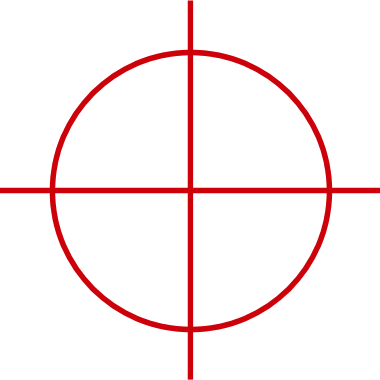
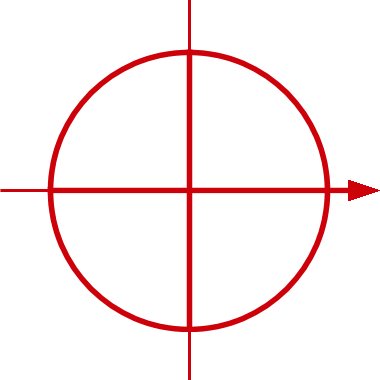
Updated RTZ for final conference - Travemünde to Helsinki Updated navigation cross image to have an arrow and slimmer lines. Changed autozoom on vessel to higher zoom level for easier overview on map. Made navigation cross appear on map even when zoomed out beyond vessel details listing Changed vess

diff --git a/src/main/webapp/vessel/ais-vessel-layer.js b/src/main/webapp/vessel/ais-vessel-layer.js
@@ -196,7 +196,7 @@ angular.module('maritimeweb.vessel')
                         return scale;
                     };
 
-                        /** Mark a vessel feature with a ring. */
+                        /** Mark a vessel feature with a ring or whatever. */
                         scope.markVesselFeature = function (vessel) {
                             var rot = vessel.radian;
                             if(vessel.moored && vessel.radian==3.141592653589793) rot = 0; //means undefined
@@ -325,17 +325,37 @@ angular.module('maritimeweb.vessel')
                                         features.push(vesselFeature);
 
                                         //always display users vessel if one is specified
-                                        if($window.localStorage.getItem('mmsi')!= null && $window.localStorage.getItem('mmsi')==vessel.mmsi){
+                                        if ($window.localStorage.getItem('mmsi') != null && $window.localStorage.getItem('mmsi') == vessel.mmsi) {
                                             features.push(scope.markVesselFeature(vesselData));
                                         }
                                     }
+
 
                                     vesselLayer.getSource().clear();
                                     vesselLayer.getSource().addFeatures(features);
                                     vesselLayer.setZIndex(10);
                                     $rootScope.loadingData = false; // stop spinner
-                                    //growl.success('<b>' + scope.vessels.length + '</b> vessels loaded', {ttl: 3000});
 
+
+                                    if($window.localStorage.getItem('mmsi')!= null && zoomLvl<9){
+                                        var uservessel = {};
+                                        VesselService.detailsMMSI($window.localStorage.getItem('mmsi')).then(function (vesselDetails) {
+                                            uservessel.name = vesselDetails.data.aisVessel.name;
+                                            uservessel.lon = vesselDetails.data.aisVessel.lon;
+                                            uservessel.lat = vesselDetails.data.aisVessel.lat;
+                                            uservessel.cog = vesselDetails.data.aisVessel.cog;
+                                            uservessel.id = vesselDetails.data.aisVessel.name;
+                                            uservessel.callsign = vesselDetails.data.aisVessel.callsign;
+                                            uservessel.mmsi = vesselDetails.data.aisVessel.mmsi;
+                                            uservessel.moored = vesselDetails.data.aisVessel.moored;
+                                            uservessel.angle = vesselDetails.data.aisVessel.rot;
+                                            uservessel.radian = ((vesselDetails.data.overview.angle - 90) * (Math.PI / 180));
+                                            $window.localStorage.setItem('Vessel_AIS_data', JSON.stringify(uservessel));
+                                            var tmpves = {"name":uservessel.name,"type":"0","x":uservessel.lon,"y":uservessel.lat,"angle":uservessel.angle,"radian":uservessel.radian,"mmsi":uservessel.mmsi,"callSign":uservessel.callsign,"moored":uservessel.moored,"inBW":false};
+                                            vesselLayer.getSource().addFeatures([scope.markVesselFeature(tmpves)]);
+                                        });
+                                    }
+                                    //growl.success('<b>' + scope.vessels.length + '</b> vessels loaded', {ttl: 3000});
                                 })
                                 .error(function (reason) {
                                     $rootScope.loadingData = false; // stop spinner
@@ -349,7 +369,7 @@ angular.module('maritimeweb.vessel')
 
                         };
 
-                        /** When the map extent changes, reload the Vessels's using a timer to batch up changes */
+                        /** When the map extent changes, reload the Vessels's using a timer to batch up changes - also display vesselmarker on zoom out */
                         scope.mapChanged = function () {
                             if (MapService.isLayerVisible('vesselVectorLayer', vesselLayers)) {
                                 if (loadTimer) {
@@ -462,12 +482,6 @@ angular.module('maritimeweb.vessel')
                         map.on('singleclick', function (evt) {
                             var zoomLvl = map.getView().getZoom();
                             if (zoomLvl > 8) {
-                         /*       var feature = map.forEachFeatureAtPixel(evt.pixel, function (feature, layer) {
-
-                                    return feature;
-                                }, null, function (layer) {
-                                    return layer === vesselLayer;
-                                });*/
 
                                 var feature = map.forEachFeatureAtPixel(evt.pixel, function (feature) {
                                     if(feature.get('mmsi')){

diff --git a/src/main/webapp/map/map-directives.js b/src/main/webapp/map/map-directives.js
@@ -184,18 +184,17 @@ angular.module('maritimeweb.map')
 
                 scope.$watch(function () { return window.localStorage['vts_zoomto_uservessel']; },function(newVal,oldVal){
                     if(newVal && newVal.toString() != ""){
-                        console.log("Zooming triggered:",newVal)
                         localStorage.setItem('vts_zoomto_uservessel', "");
                         map.getView().animate({
                             center: ol.proj.transform(JSON.parse(newVal), 'EPSG:4326', 'EPSG:3857'),
-                            zoom: 14,
+                            zoom: 10,
                             duration: 2000
                         });
                     }
                 });
 
 
-                    // Check for the map reload flag
+                // Check for the map reload flag
                 if (isDefined(scope.mapState) && isDefined(scope.mapState.reloadMap)) {
                     scope.$watch("mapState.reloadMap", function (reload) {
                         if (reload) {
@@ -638,7 +637,7 @@ angular.module('maritimeweb.map')
                         //Enable code, click around on map, see in console. - note: clicking on anything that is not map, such as existing route, vessel, vts area etc, will mess up your rtz.
                         //You have to copy/paste into an RTZ to make it work.
                         // scope.tmpRtzPointsCount++;
-                        // scope.tmpRtzPoints += '<waypoint id=\"'+scope.tmpRtzPointsCount+'\" name=\"\">\n"' +
+                        // scope.tmpRtzPoints += '<waypoint id=\"'+scope.tmpRtzPointsCount+'\" name=\"\">\n' +
                         //     '<position lat=\"'+scope.currentPos.lat+'\" lon=\"'+scope.currentPos.lon+'\"/>\n' +
                         //     '<leg speedMin=\"12.0\" speedMax=\"12.0\" />\n' +
                         //     '</waypoint>';

diff --git a/src/main/webapp/vessel-traffic-service/vessel-traffic-service-ctrl.js b/src/main/webapp/vessel-traffic-service/vessel-traffic-service-ctrl.js
@@ -1357,7 +1357,8 @@ console.log("Bob says:",$scope.showFuelSpecification);
 
             $scope.detectRouteEtaAtVts(); //sets the route ETA into the date/time picker
 
-            $scope.vtsvesselmmsiinput = "265177000"; //TODO: Remove this eventually..
+            $scope.vtsvesselmmsiinput = ""; //if user has mmsi attached
+            if($window.localStorage.getItem('mmsi')!= null) $scope.vtsvesselmmsiinput = $window.localStorage.getItem('mmsi');
             $scope.VTSVesselMMSIValidation();
             $scope.VTSValidationAllDone(); //make sure to see if is ready to send on refreshed browser
 
@@ -1543,8 +1544,6 @@ console.log("Bob says:",$scope.showFuelSpecification);
         $scope.getAisDataByMmsi = function () {
             if ($scope.setvtsvesselMMSIValid && $scope.isLoggedIn) {
                 VesselService.detailsMMSI($scope.vtsvesselmmsiinput).then(function (vesselDetails) {
-                    console.log("Vessel info from AIS:", vesselDetails.data.aisVessel);
-
                     $scope.aisData.vesselName = vesselDetails.data.aisVessel.name;
                     $scope.aisData.vesselCallsign = vesselDetails.data.aisVessel.callsign;
                     $scope.aisData.vesselImo = vesselDetails.data.aisVessel.imoNo;

diff --git a/src/main/webapp/vessel/vessel-service.js b/src/main/webapp/vessel/vessel-service.js
@@ -17,12 +17,12 @@ angular.module('maritimeweb.vessel')
 
             /** Returns the details for the given MMSI **/
             this.details = function (vessel) {
-                console.log("getting details in VesselService");
+                //console.log("getting details in VesselService");
                 return $http.get('/rest/vessel/details?mmsi=' + encodeURIComponent(vessel.mmsi));
             };
             /** Returns the details for the given MMSI **/
             this.detailsMMSI = function (mmsi) {
-                console.log("getting vessel details in VesselService");
+                //console.log("getting vessel details in VesselService");
                 return $http.get('/rest/vessel/details?mmsi=' + encodeURIComponent(mmsi));
             };
 
